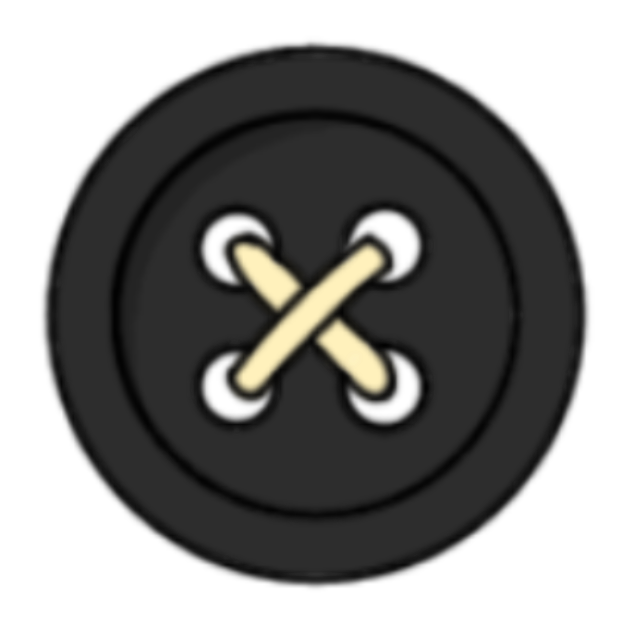
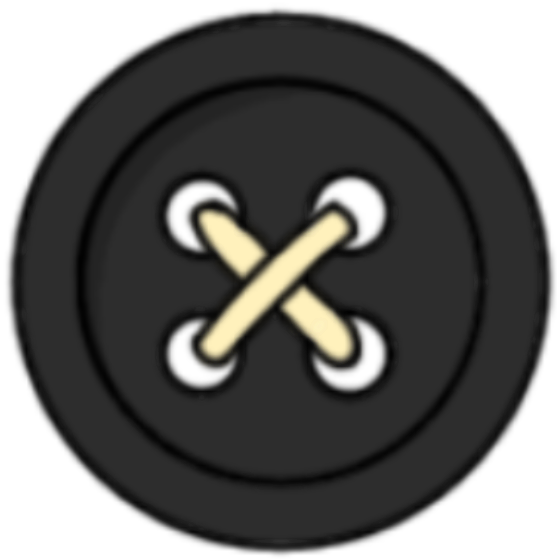
Peças no tabuleiro
- Adicionadas as peças ao tabuleiro
- Ajustes das imagens

diff --git a/index.html b/index.html
@@ -35,8 +35,17 @@
 
             <div class="tabuleiro">
                 <img src="imagens/Tabuleiro.png" alt="Tabuleiro de jogo da velha" class="imgTabuleiro">
-                <img src="imagens/Botao.png" alt="Botão" class="peca">
-                <img src="imagens/Triangulo.png" alt="Triângulo" class="peca">
+                <div class="grade"> 
+                    <div class="celula" data-index="0"> <img src="imagens/Botao.png" alt="Botão"> </div>
+                    <div class="celula" data-index="1"> <img src="imagens/Triangulo.png" alt="Triângulo"> </div>
+                    <div class="celula" data-index="2"> <img src="imagens/Botao.png" alt="Botão"> </div>
+                    <div class="celula" data-index="3"> <img src="imagens/Triangulo.png" alt="Triângulo"> </div>
+                    <div class="celula" data-index="4"> <img src="imagens/Botao.png" alt="Botão"> </div>
+                    <div class="celula" data-index="5"> <img src="imagens/Triangulo.png" alt="Triângulo"> </div>
+                    <div class="celula" data-index="6"> <img src="imagens/Botao.png" alt="Botão"> </div>
+                    <div class="celula" data-index="7"> <img src="imagens/Triangulo.png" alt="Triângulo"> </div>
+                    <div class="celula" data-index="8"> <img src="imagens/Botao.png" alt="Botão"> </div>
+                </div>
             </div>
 
             <div class="jogador jogador2"> 

diff --git a/css/style.css b/css/style.css
@@ -119,16 +119,40 @@ main {
   align-items: center;
   margin: o;
   position: relative;
+  max-width: 400px;
 }
 
 .tabuleiro .imgTabuleiro {
-  max-width: 400px;
   width: 100%;
   height: auto;
+  display: block;
 }
 
-.tabuleiro .peca {
-  display: none;
+.grade {
+  position: absolute;
+  top: 0%;
+  left: 1%;
+  width: 99%;
+  height: 99%;
+
+  display: grid;
+  grid-template-columns: repeat(3, 1fr);
+  grid-template-rows: repeat(3 1fr);
+}
+
+.celula {
+  display: flex;
+  justify-content: center;
+  align-items: center;
+  cursor: pointer;
+
+  /*border: 1px dashed red; /*Para testar a posição das células*/ 
+}
+
+.celula img {
+  width: 70%;
+  height: auto;
+  pointer-events: none;
 }
 
 .statusJogo {
@@ -148,8 +172,8 @@ main {
 }
 
 .jogadorAvatar {
-  width: 90px;
-  height: 90px;
+  width: 95px;
+  height: 95px;
   border-radius: 50%;
   border: var(--borda);
   display: flex;
@@ -166,7 +190,7 @@ main {
 }
 
 .jogador img {
-  width: 85%;
+  width: 80%;
   height: auto;
 }
 
@@ -218,7 +242,6 @@ footer::before {
   align-items: center;
 
   z-index: 1000;
-  
 }
 
 .containerPause {
